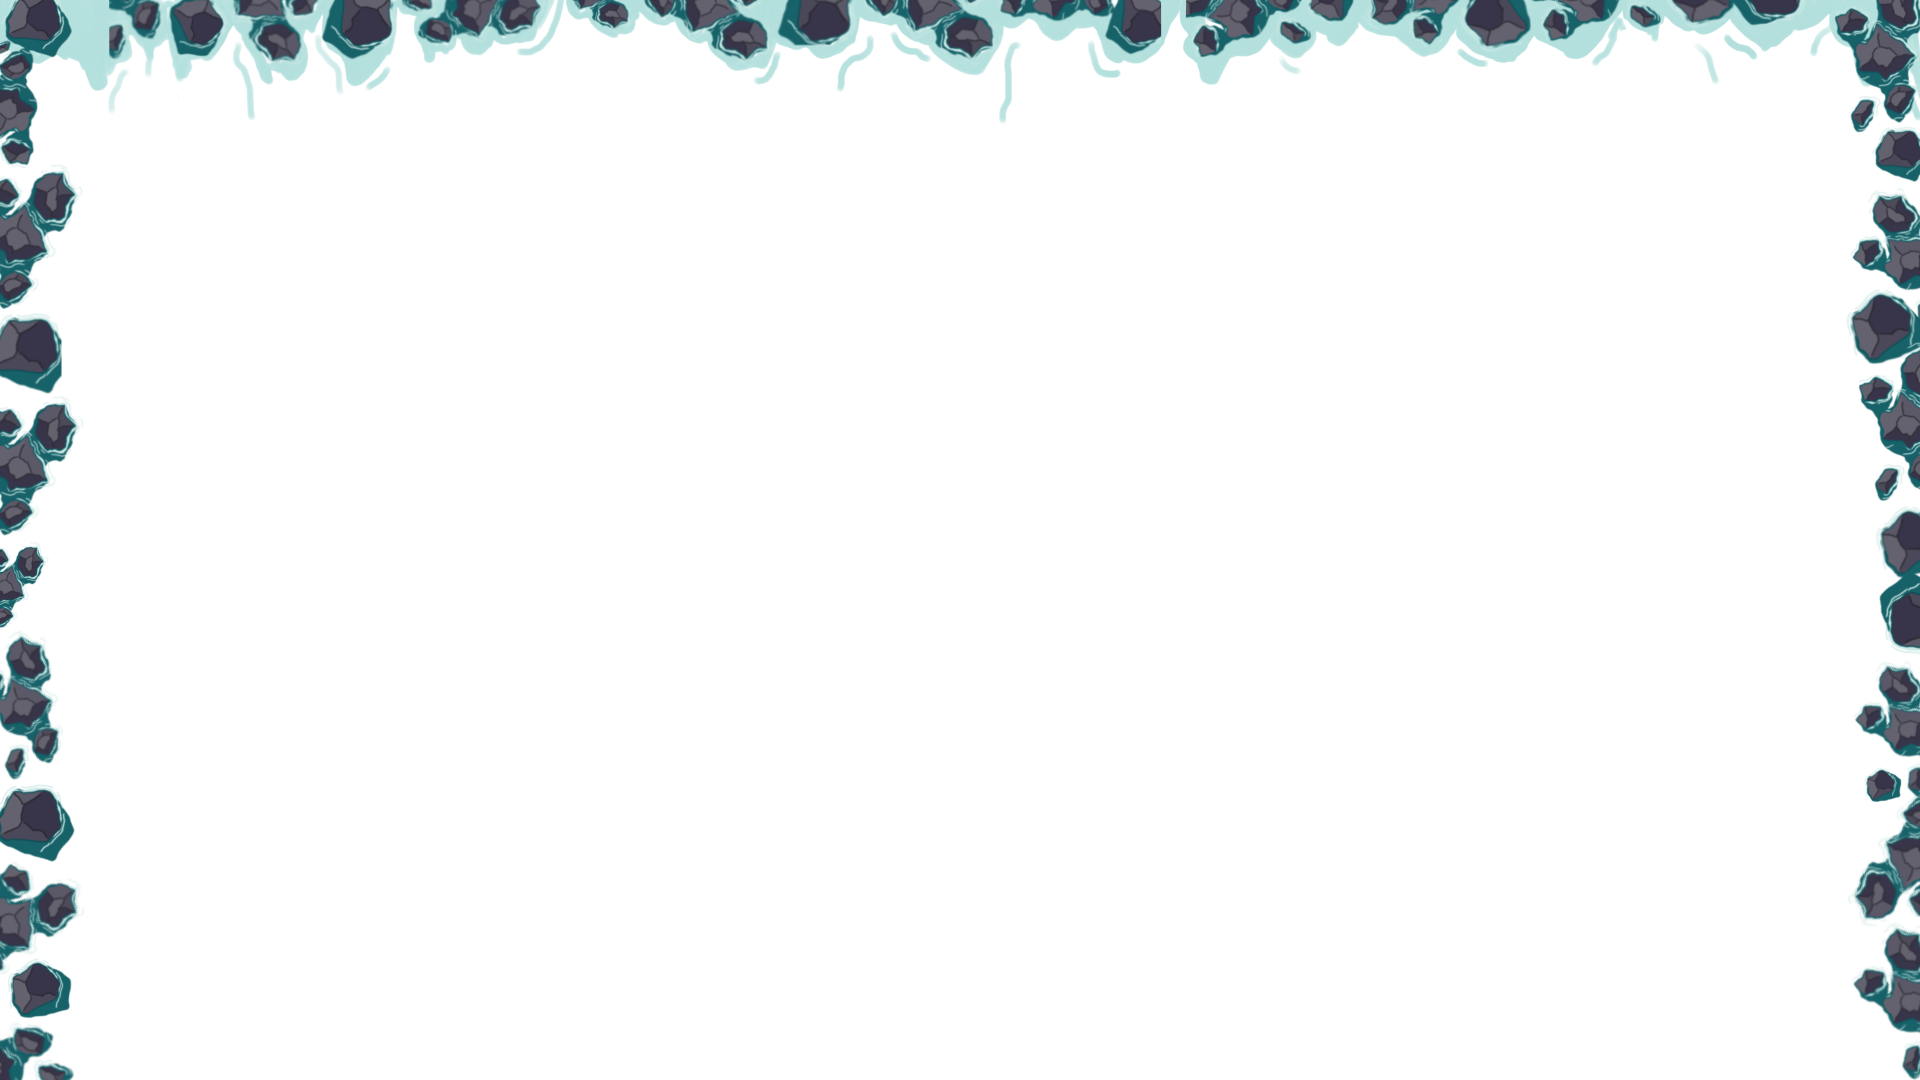
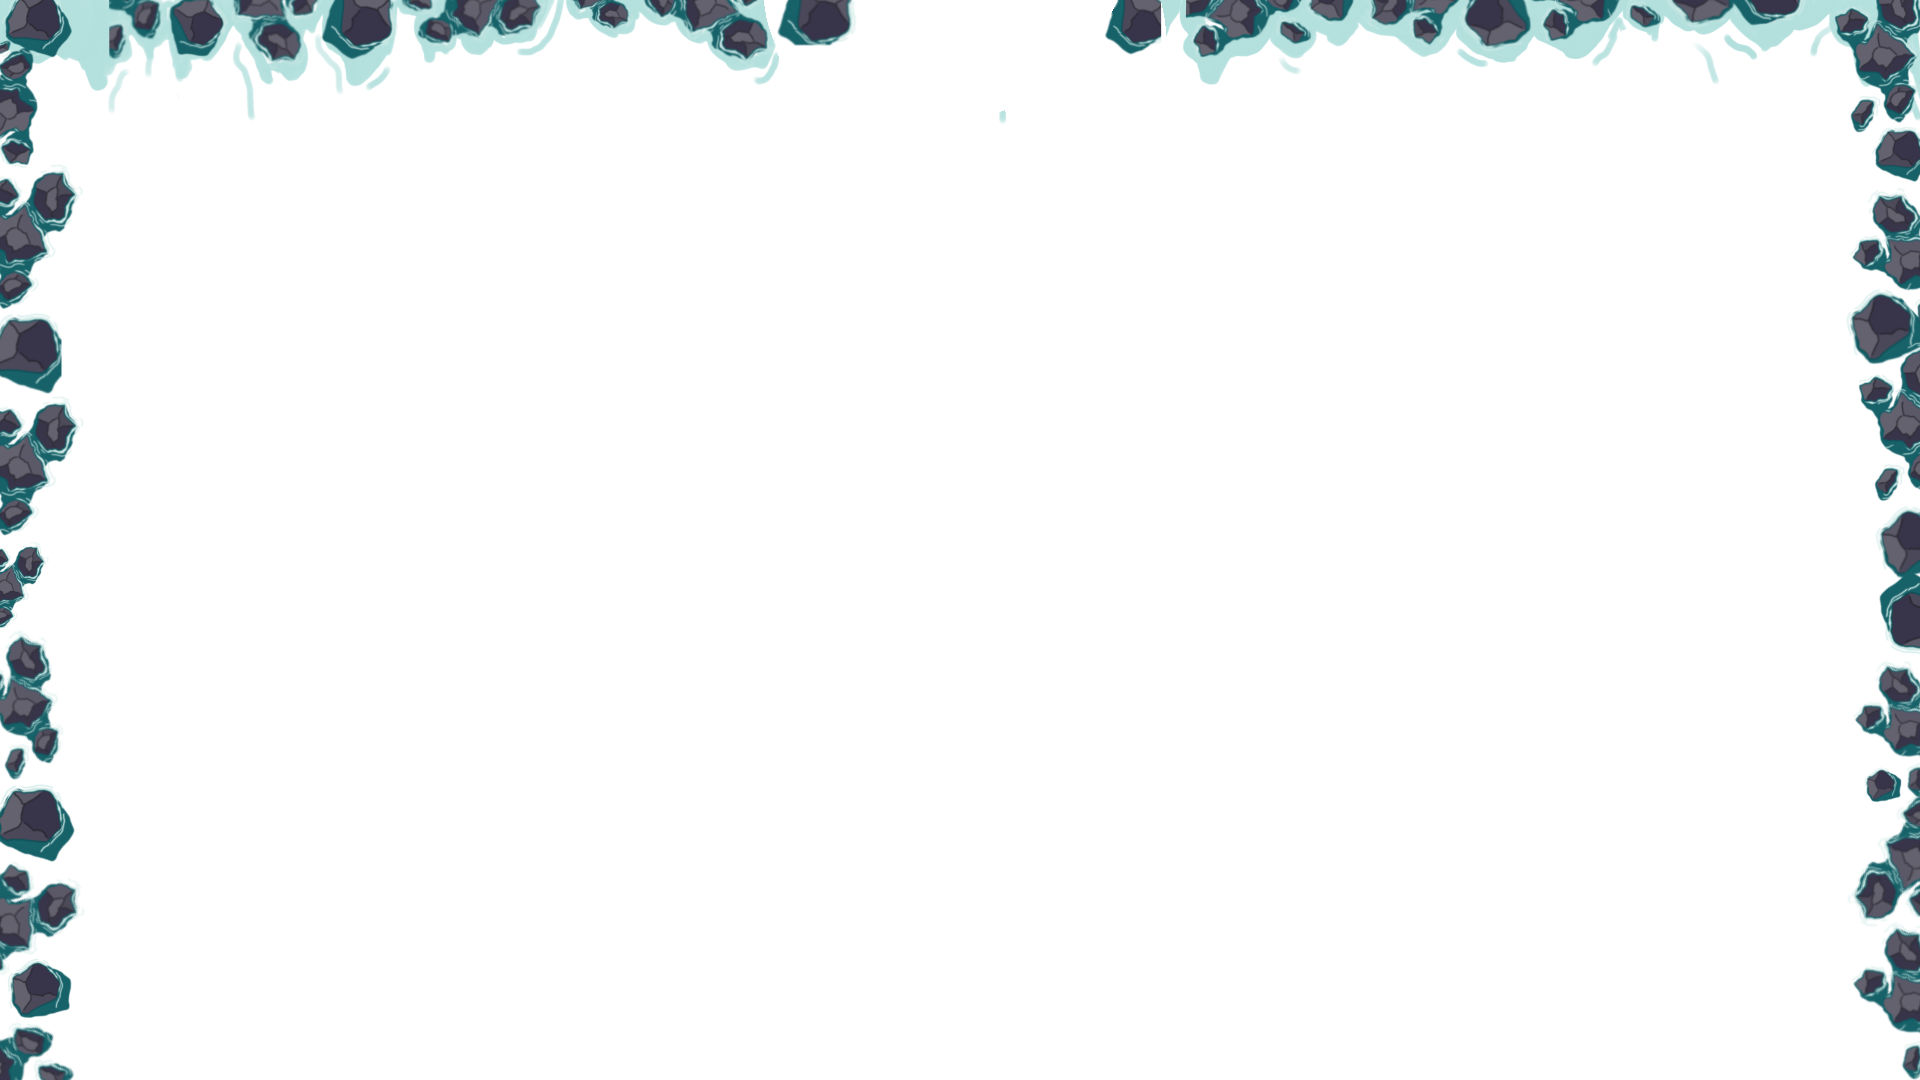
allah

Changed region(s): [[0.4062, 0.0, 0.625, 0.0917], [0.375, 0.0, 0.4062, 0.0306]]

diff --git a/app/game/background.tsx b/app/game/background.tsx
@@ -8,8 +8,10 @@ export function Background() {
                 <Image className="absolute w-screen h-screen" src={"/img/BgOnlt.png"} alt={""} layout='fill'/>
                 <Image className="absolute w-screen h-screen wavesAnimation" src={"/img/waves2.png"} alt={"Waves"} layout='fill'/>
                 <Image className="absolute w-screen h-screen wavesAnimation" style={{top: '-100%'}} src={"/img/waves2.png"} alt={"Waves"} layout='fill'/>
-                <Image className="absolute w-screen h-screen" src={"/img/WaterMovingMiddle1.png"} alt={""} layout='fill'/>
-                <Image className="absolute w-screen h-screen WaterMovingMiddle" src={"/img/WaterMovingMiddle2.png"} alt={""} layout='fill'/>
+                <Image className="absolute w-screen h-screen" src={"/img/IslandInMiddle.png"} alt={""} layout='fill'/>
+                {/* <Image className="absolute w-screen h-screen" src={"/img/IslandInMiddle2.png"} alt={""} layout='fill'/> */}
+
+                <Image className="absolute w-screen h-screen WaterMovingMiddle" src={"/img/Skum.png"} alt={""} layout='fill'/>
                 <Image className="absolute w-screen h-screen" src={"/img/BgCoreOverlay.png"} alt={""} layout='fill'/>
             </div>
         </>
